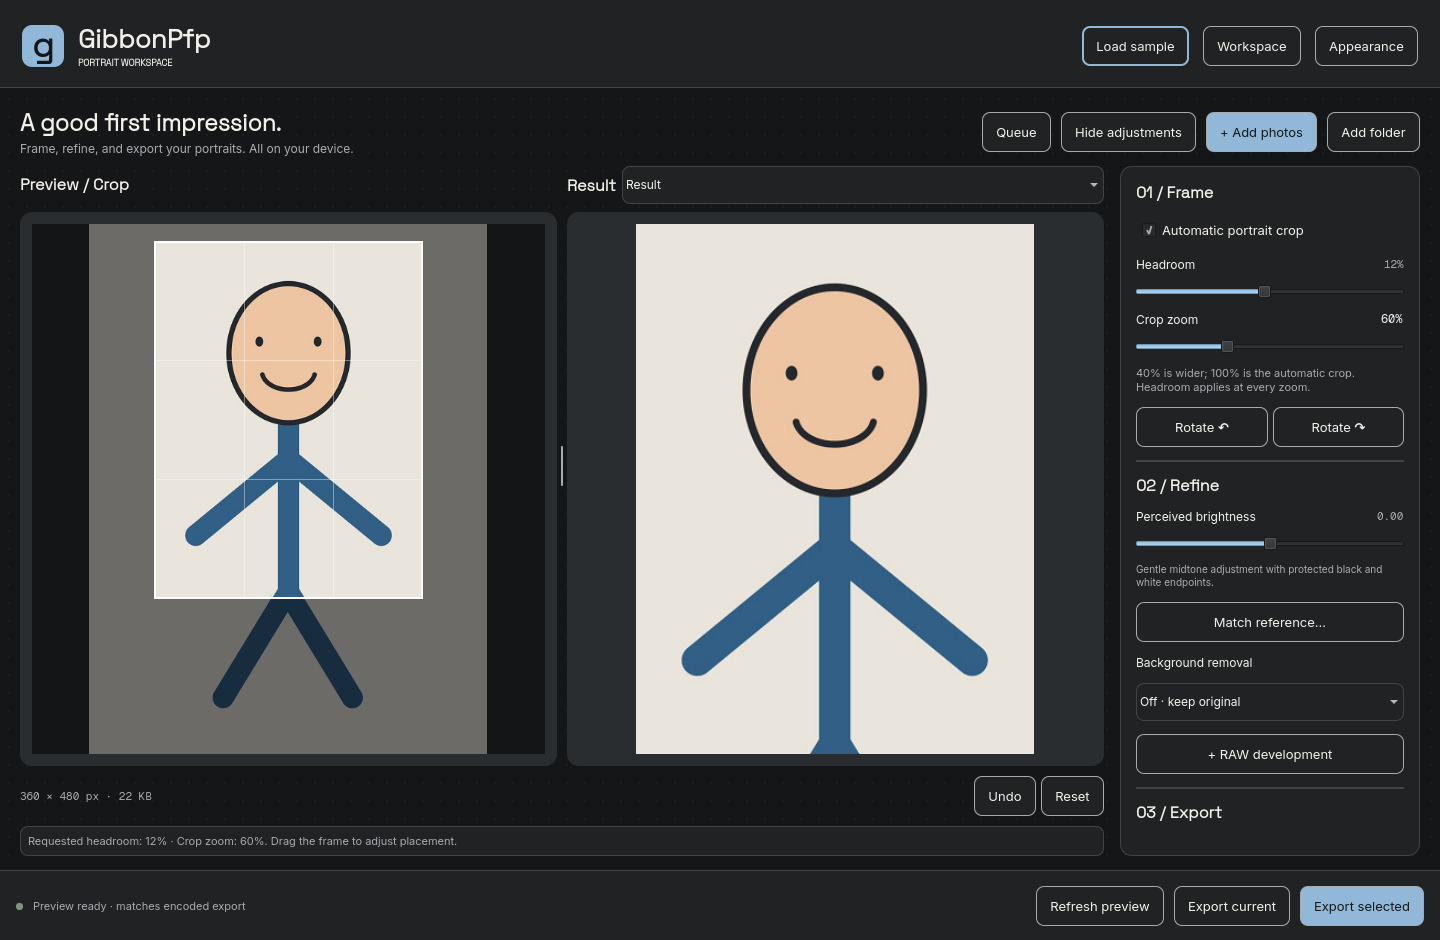
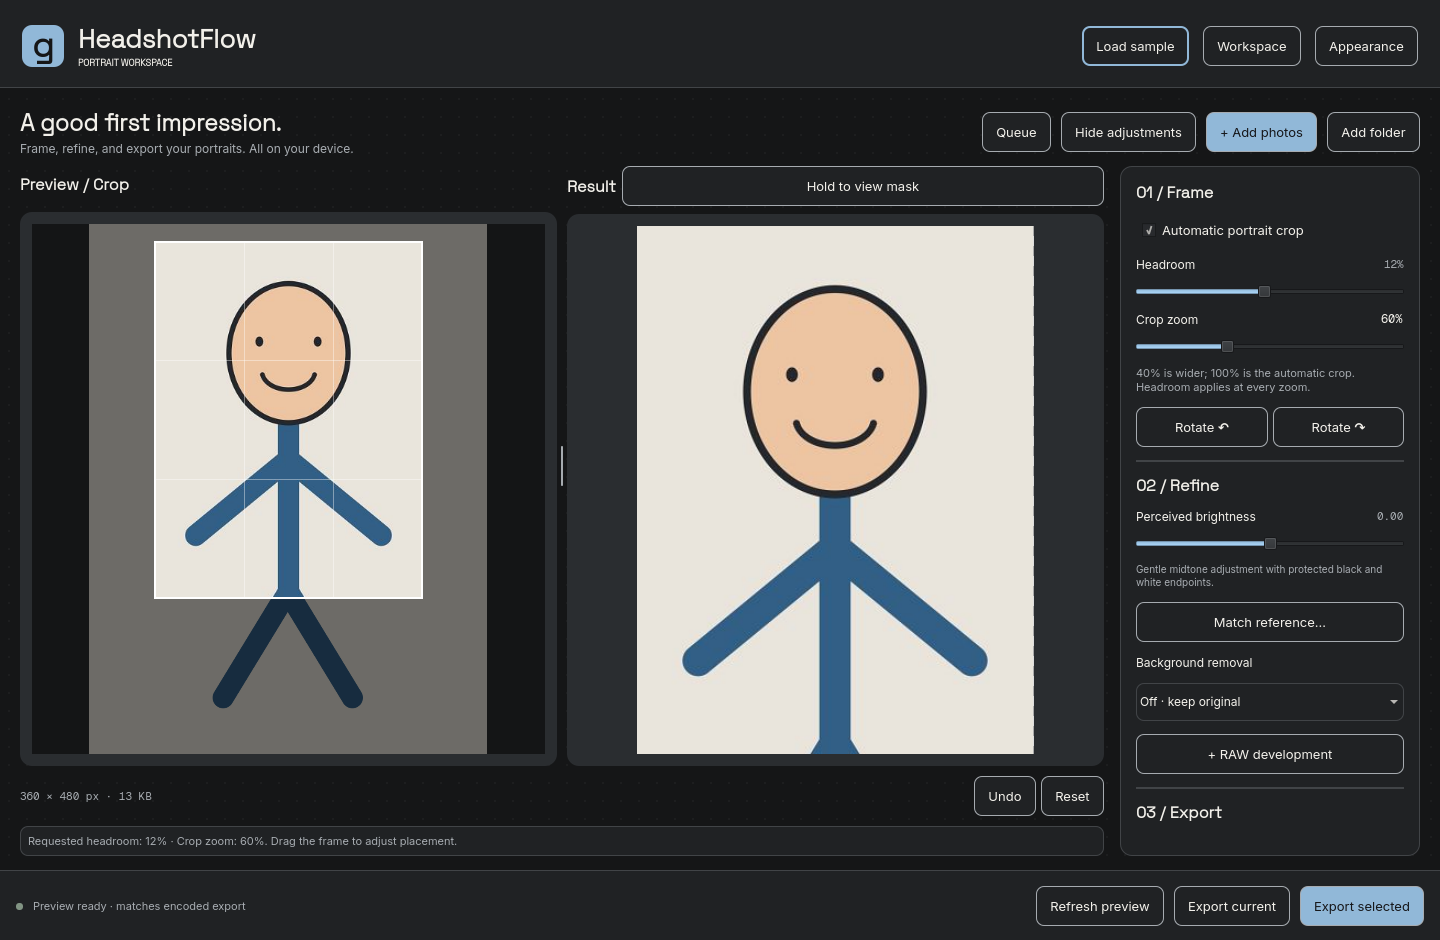
docs: update HeadshotFlow quickstart and workspace guidance

diff --git a/README.md b/README.md
@@ -6,6 +6,7 @@
   <p>Frame, refine, and export consistent portraits. All on your device.</p>
   <p>
     <a href="https://github.com/wispdevon/GibbonPfp/releases">Releases</a> ·
+    <a href="docs/quickstart.md">Quickstart</a> ·
     <a href="docs/BUILDING.md">Build instructions</a> ·
     <a href="https://github.com/wispdevon/GibbonPfp/issues">Report a bug / Request a feature</a>
   </p>
@@ -27,7 +28,7 @@ The default output is **360 × 480 pixels, portrait 3:4**, with **70% crop zoom,
 
 ![Native HeadshotFlow workspace with the built-in sample, 12% headroom, and 60% crop zoom](docs/images/workspace.png)
 
-*Native Linux screenshot using the built-in illustrated sample; no private photos.*
+*Native Linux screenshot using the built-in illustrated sample with background removal Off.*
 
 <details>
 <summary>Table of contents</summary>
@@ -65,8 +66,8 @@ The default output is **360 × 480 pixels, portrait 3:4**, with **70% crop zoom,
   output without automatic upscaling, prefixes, and collision-safe filenames.
 - **Input formats:** JPEG, PNG, WebP, TIFF, HEIC, and camera RAW, with RAW
   white-balance presets, temperature/tint, and highlight recovery.
-- **Batch work:** folder import, selection-based adjustments, review/approval,
-  automatic processing, reusable presets, sessions, undo, and reset.
+- **Batch work:** folder import, preparation and export for checked photos,
+  whole-queue ZIP, per-photo approvals, reusable presets, sessions, undo, and reset.
 - **Appearance:** light/dark themes, 80–150% UI scaling, Graphite/Blue accents,
   and embedded fonts throughout Qt controls and dropdowns.
 
@@ -127,25 +128,36 @@ See [Arch packaging](docs/BUILDING.md#arch-linux--aur-and-local-updates).
 
 ## Desktop usage
 
-1. **Add photos**, **Add folder**, or **Load sample**. Folder import includes subfolders.
-2. Select a portrait and adjust **Frame**, **Refine**, and **Export**.
-3. Inspect the right **Result** pane: it shows the actual decoded JPEG/PNG output.
-4. Controls edit only the current photo; switching photos keeps each photo’s settings.
-   **Apply to all** copies the controls to every queued photo, including unchecked photos,
-   recalculates each frame, clears manual crops and brushes, and invalidates approvals.
-   Later imports inherit the last applied settings. Use **Prepare selected** to process a selection.
-5. Adjust or approve photos marked **Needs review**, or explicitly choose the
-   **Fully automatic batch** policy and use **Apply to all**.
-6. Export the current photo or selected batch to an output folder, or choose
-   **Export queue to ZIP** in Export controls. ZIP includes every photo regardless of
-   selection, plus a JSON report. It saves only when every photo can export: review
-   holds, missing files, failures, or cancellation leave the destination unchanged.
-   Duplicate names receive suffixes. Photos are encoded one at a time.
+Start with **Load sample**, or bring in portraits with **Add photos** or
+**Add folder**. Folder import includes subfolders. Open a photo in the editor to adjust
+**Frame**, **Refine**, and **Export**, then check the encoded output in **Result**.
+See the [desktop quickstart](docs/quickstart.md) for your first export.
 
-Hold **Hold to view mask** with the mouse or keyboard Space to inspect the unsmoothed
-mask. Releasing it or moving focus restores the encoded result. Brushes also work
-on the composite preview. Sessions and recovery preserve the queue’s import defaults;
-older sessions retain explicit photo settings and use factory defaults for new imports.
+| Command | Photos it affects |
+| --- | --- |
+| **Export current** | The open photo, regardless of its checkbox |
+| **Prepare selected**, **Export selected**, **Remove selected** | Checked photos, including those hidden by the queue filter |
+| **Apply to all** | Every queued photo and future imports |
+| **Export queue to ZIP** | Every queued photo |
+
+The queue shows the checked count and how many checked photos a filter hides.
+
+Edits apply to the open photo. Confirm **Apply to all** to copy its controls,
+recalculate each crop, clear manual framing and brush strokes, and invalidate
+approvals.
+Sessions and recovery preserve the queue’s import defaults. Older sessions retain
+explicit photo settings and use factory defaults for new imports.
+
+For **Needs review**, read the framing warning, adjust the crop as needed, and use
+**Approve current framing** when satisfied. Approval is per photo. If you choose
+**Fully automatic batch**, it allows fallback framing and records warnings. Use
+**Apply to all** if you want that policy across the queue.
+
+Folder exports save successful photos and write a JSON report. A hold, failure,
+or cancellation can leave a partial export on disk. **Export queue to ZIP** under
+**Export** commits the archive only after every photo passes processing and review.
+A hold, failure, or cancellation leaves the destination intact. A successful ZIP
+contains `export-report.json`. Duplicate output names receive numeric suffixes.
 
 ### Crop, headroom, and zoom
 
@@ -171,7 +183,9 @@ its existing queue entry.
 
 ### Masks and screen sharpening
 
-Use the right pane's **Result / Mask** selector to inspect output or the mask.
+Press and hold **Hold to view mask** in the right pane with the pointer or focus
+it and hold **Space**. Releasing it, moving focus, or changing photos restores
+the encoded result. Brushes also work on the composite preview.
 Both removal modes see **10 percentage points of wider crop context**: a 65%
 export crop uses a 55% removal frame, and 40% uses a removal-only 30% frame.
 The extra frame follows the current crop position and headroom anchor, limited
@@ -426,16 +440,16 @@ not a separate CLI flag.
 | Setting | Default | Behavior |
 | --- | --- | --- |
 | `autoCrop` | `true` | Estimate a head-and-shoulders frame |
-| `cropZoom` | `100` | 40–100%; lower values widen automatic framing |
+| `cropZoom` | `70` | 40–100%; lower values widen automatic framing |
 | `headroom` | `0.08` | Requested fraction above the estimated head; 0–0.25 |
 | `capped` | `true` | Maximum 360 × 480 pixels |
 | `width`, `height` | `360`, `480` | Exact 3:4; both `0` for source-sized uncapped output |
 | `brightness` | `0` | Gentle lightness shift, −1 to 1 |
-| `background` | `off` | `off`, `fast`, or `quality` |
+| `background` | `fast` | `off`, `fast`, or `quality` |
 | `feather` | `0` | Additional mask blur, 0–10 output pixels in the desktop |
 | `sharpenScreen` | `true` | Apply sharpening at final output size |
 | `sharpening` | `standard` | `low`, `standard`, or `high` |
-| `format`, `quality` | `jpeg`, `92` | JPEG/PNG format and JPEG quality |
+| `format`, `quality` | `jpeg`, `80` | JPEG/PNG format and JPEG quality |
 | `automatic` | `false` | Allow uncertain crop fallbacks to export |
 
 Sessions store source paths, per-photo settings, crop baselines and zoom,
@@ -519,7 +533,7 @@ tests/               Core/controller tests and synthetic fixtures
 scripts/             Asset fetch, validation, local installation, and packaging
 packaging/aur/       Arch PKGBUILD and AUR metadata
 cmake/               Runtime setup and dependency triplets
-docs/                Build/distribution notes and native workspace screenshot
+docs/                Quickstart, shared design, build notes, and native screenshot
 .github/workflows/   Native desktop build/test/package matrix
 ```
 

diff --git a/DESIGN.md b/DESIGN.md
@@ -1,7 +1,7 @@
 # HeadshotFlow Design
 
-HeadshotFlow adapts the portable visual language from Strider's `DESIGN.md` to a
-native Qt Quick workspace. It is an editing tool, with no account or web service.
+HeadshotFlow adapts the [shared workspace design](docs/shared/DESIGN.md) to a
+native Qt Quick portrait editor. This file specifies the desktop adaptation.
 
 ## Foundation
 
@@ -12,19 +12,9 @@ Use Medium (500) for work text and controls, DemiBold (600) for actions, and Bol
 fields, checkboxes, tooltips, and app dialogs. Validate bundled font loading at
 startup. Native operating-system file dialogs retain their platform typography.
 
-| Token | Light | Dark |
-| --- | --- | --- |
-| Canvas | `#efece6` | `#151617` |
-| Foreground | `#17181b` | `#f2f0ea` |
-| Panel | `#f8f6f2` | `#202224` |
-| Strong surface | `#e7e0d5` | `#2a2d30` |
-| Muted text | `#626970` | `#a6abb0` |
-| Accent | `#1d1f23` | `#bfc9d1` |
-
-The light muted text is slightly darker than Strider's base token for small
-desktop labels. Use a subtle 18px dot grid on the continuous canvas, 8px control
-corners, 12px panels, and 40px command targets. State colors stay small and always
-have a text label. Theme follows the OS initially and persists locally.
+Use the shared palette, dot grid, and control geometry. Use `#d3cec5` for light
+separators and `#414447` for dark separators. Keep status labels legible at the
+smallest supported UI scale.
 
 ## Work surface
 
@@ -34,6 +24,7 @@ adjustments collapse independently and initially hide when logical space is limi
 Narrow workspaces show at most one sidebar. Adjustment sections are Frame, Refine,
 Export. Dense regions scroll independently. Minimum window size is 1024 × 720. Avoid nested cards,
 decorative heroes, pills for ordinary commands, and distracting idle animation.
+Place **Open photos…** and **Load sample** in the empty crop canvas.
 
 Output previews are decoded from the actual JPEG/PNG bytes. The left pane shows
 the finished export inside the editable crop, over a dimmed
@@ -80,7 +71,8 @@ hover and keyboard-focus states. Keep both image panes visible at all scales.
 ## Review behavior
 
 Never present estimated headroom as a professional identity-photo standard.
-Show the reason when a crop needs review. An explicit per-photo approval or the
+Keep the reason beside the approval action when a crop needs review. Allow the
+reason to wrap in a compact workspace. An explicit per-photo approval or the
 fully automatic policy releases the hold. Settings changes invalidate approval.
 
 ## High Quality model loading
@@ -116,14 +108,25 @@ High Quality consent and processing caches never persist.
 
 ## Queue application and ZIP export
 
-Factory settings use 70% crop zoom, 8% headroom, Fast removal, white JPEG at quality
-80, and Standard screen sharpening. Edits stay local until Apply to all. Applying
-copies controls to every photo, resets manual framing and strokes, invalidates
-approvals, and sets defaults for future imports. Refresh the active photo immediately
-and other photos when viewed or processed. Undo remains per photo.
+Factory settings use a 360 × 480 cap, 70% crop zoom, 8% headroom, Fast removal,
+white JPEG at quality 80, and Standard screen sharpening. Edits affect the open
+photo. **Apply to all** confirms its scope before copying the open photo’s
+controls to every queued photo, clearing their manual framing and strokes,
+invalidating approvals, and setting defaults for future imports. Refresh the
+open photo immediately and other photos when viewed or processed. Undo remains
+per photo.
+
+Opening a photo and checking it are independent. The queue filter controls
+visibility. The selected count and **Prepare selected**, **Remove selected**, and
+**Export selected** include checked photos hidden by the filter. Show the hidden
+count when a filter hides checked photos. Disable the commands when
+the checked set is empty. **Export current** uses the open photo.
+Folder exports write each successful photo as it completes and report holds or
+failures. Completed output stays on disk after cancellation.
 
 Hold to view mask works with pointer or keyboard Space, returning to the composite
 on release, focus loss, or photo change. Selecting brushes does not latch mask view.
-Export queue to ZIP lives in Export controls and uses the native save dialog. All
-photos must pass processing and review before the archive is atomically published;
-cancellation and failures leave the existing destination intact. Include an export report.
+**Export queue to ZIP** lives in Export controls and uses the native save dialog.
+It includes all queue entries. Every photo must pass processing and review before
+the archive is atomically published. Cancellation and failures leave the existing
+destination intact. Include an export report.

diff --git a/docs/quickstart.md b/docs/quickstart.md
@@ -1,0 +1,66 @@
+# HeadshotFlow quickstart
+
+Install HeadshotFlow from [Releases](https://github.com/wispdevon/GibbonPfp/releases)
+or follow the [build instructions](BUILDING.md). The desktop launcher is named
+**HeadshotFlow**. The terminal command is `gibbonpfp`.
+
+## Export the built-in sample
+
+1. Open HeadshotFlow and choose **Load sample** on the empty canvas or in the
+   toolbar. The illustrated portrait opens in **Preview / Crop** on the left,
+   with the encoded output in **Result** on the right.
+2. Open **Adjustments** if it is hidden. In **Frame**, try **12% Headroom** and
+   **60% Crop zoom** to reproduce the framing shown below. Lower zoom values
+   include more of the source. You can drag the crop or focus it with **Tab**
+   and use the arrow keys to position it.
+3. Wait for the updated **Result**. Press and hold **Hold to view mask** with
+   the pointer or focus the button and hold **Space**. Release to return to the
+   output. **Fast · portrait** is the factory removal mode. Choose
+   **Off · keep original** under **Refine → Background removal** to show the
+   intact illustration as seen below.
+4. Click **Export current** (shown as **Export** in compact layouts), then
+   choose an output folder. Open the exported JPEG from that folder. Factory
+   settings use a 360 × 480 portrait JPEG, quality 80, a white backdrop, and
+   Standard screen sharpening. The folder also contains a JSON report.
+
+![Native Linux HeadshotFlow workspace with the built-in sample and the adjustments panel open](images/workspace.png)
+
+## Review and export your own photos
+
+Choose **Open photos…** on the empty canvas or **Add photos** in the toolbar.
+**Add folder** also imports photos within subfolders. Open a photo to edit it.
+If the app shows **Needs review**, read the warning near the approval action and
+adjust the frame as needed. When you are satisfied, choose **Approve current
+framing** (or **Approve framing** in compact layouts).
+Approval applies to one photo. Further edits to its settings clear approval.
+
+| To do this | Use this command |
+| --- | --- |
+| Save the photo open in the editor | **Export current** |
+| Check whether a set of photos is ready | Check their queue boxes and choose **Prepare selected** |
+| Save that set to a folder | **Export selected** |
+| Save every queued photo together | **Export queue to ZIP** under **Adjustments → Export** |
+
+The selected count includes checked photos hidden by a filter. The queue reports
+how many selected photos the filter hides. Use **All photos** to see the full set.
+A folder export keeps any successfully saved photos if another photo is held or
+fails, or if you cancel. A ZIP contains the whole queue and its report. It is
+saved only when every photo can be exported and the archive is complete.
+
+Each photo keeps its own settings. Confirm **Apply to all** to copy the open
+photo’s controls to the entire queue and set defaults for future imports. This
+clears manual framing, brush strokes, and approvals for every queued photo.
+
+## Keyboard controls
+
+| Key | Action |
+| --- | --- |
+| **Tab** / **Shift+Tab** | Move focus through controls |
+| **Arrow keys** in Preview / Crop | Move the focused crop frame |
+| **Space** on Hold to view mask | Inspect the mask until release |
+| **Ctrl+Return** | Refresh the preview |
+| **Ctrl+O** / **⌘O** | Open the Add photos dialog |
+| **Ctrl+Z** / **⌘Z** | Undo the last change to the current photo |
+
+See the [README](../README.md#desktop-usage) for mask refinement, appearance,
+saved sessions, and model options.

diff --git a/docs/shared/DESIGN.md b/docs/shared/DESIGN.md
@@ -1,0 +1,52 @@
+# Shared workspace design
+
+Use this guidance for workspaces with dense controls and visual content. Each
+project’s design document defines its own tools, layout, and validation paths.
+
+## Typography and color
+
+Use Space Grotesk Bold for product identity and section headings, Inter for
+work text and controls, and monospace numerals for dimensions and measurements.
+Use medium weight for work text and semibold for commands. Give controls and
+dialogs the same type hierarchy as the main workspace.
+
+| Semantic role | Light | Dark |
+| --- | --- | --- |
+| Canvas | `#efece6` | `#151617` |
+| Primary text | `#17181b` | `#f2f0ea` |
+| Panel | `#f8f6f2` | `#202224` |
+| Strong surface | `#e7e0d5` | `#2a2d30` |
+| Secondary text | `#626970` | `#a6abb0` |
+| Graphite accent | `#1d1f23` | `#bfc9d1` |
+
+These are starting values. Measure contrast against the actual surface in each
+theme and interaction state. Aim for at least 4.5:1 for normal text and 3:1 for
+large text and essential control boundaries. Use an accent to mark a primary
+command, selection, or focus. Pair status colors with text or a clear symbol.
+Start with the OS theme and retain a user’s explicit choice. Keep photo colors
+independent of the interface theme.
+
+## Surfaces and controls
+
+- Keep the working canvas continuous. Where an 18 px dot grid fits the workspace,
+  keep it faint and on the canvas alone. Use panel surfaces for groups that need
+  separation and thin rules within them.
+- Use 8 px control corners, 12 px panel corners, and command targets of at least
+  40 logical pixels where space allows. Give primary actions a solid accent fill
+  and secondary actions a visible border.
+- Let the content lead. Put frequent controls in a stable position and allow
+  dense regions to scroll independently. Keep preview geometry stable while
+  loading and place empty states or errors in the affected work region.
+- Make focus visible, label controls, and offer keyboard alternatives to pointer
+  and drag interactions. Restore focus when dialogs close. Allow text to wrap and
+  preserve essential controls at smaller sizes and larger interface scales.
+- Use motion for immediate interaction feedback and honor reduced-motion settings
+  wherever motion is enabled. Verify the actual interface in both themes, with
+  keyboard operation and across supported sizes.
+
+## Reference projects
+
+Strider contributes the warm paper and graphite palette, faint grid, and command
+geometry. Devon Labs reinforces open layouts and original-color media. OpenCull
+contributes photograph-first surfaces, contrast checks, and scale verification.
+HeadshotFlow’s native Qt adaptation is in its [project design](../../DESIGN.md).

diff --git a/AGENTS.md b/AGENTS.md
@@ -1,7 +1,8 @@
-# GibbonPfp
+# HeadshotFlow
 
-C++20 / Qt Quick desktop application with a shared CLI image engine. Follow
-[DESIGN.md](DESIGN.md) for UI changes and [README.md](README.md) for build commands.
+C++20 / Qt Quick desktop application with a shared CLI image engine. Follow the
+[project design](DESIGN.md) and [shared workspace design](docs/shared/DESIGN.md)
+for UI changes, and [README.md](README.md) for build commands.
 
 - Keep GUI and CLI processing in `gibbon_core`; never duplicate image math in QML.
 - Default dimensions are width 360 × height 480, portrait 3:4.
@@ -12,6 +13,9 @@ C++20 / Qt Quick desktop application with a shared CLI image engine. Follow
 - Never claim clipping-free JPEG detail, perfect segmentation, universal RAW camera
   compatibility, or platform validation without evidence.
 - Use Conventional Commit subjects. Do not commit build products or private photos.
+- Keep reusable design guidance in `docs/shared/DESIGN.md` and HeadshotFlow
+  decisions in `DESIGN.md`. Track guidance that future contributors need in
+  the repository and link it from the relevant project entry point.
 
 ## Local test installation
 
